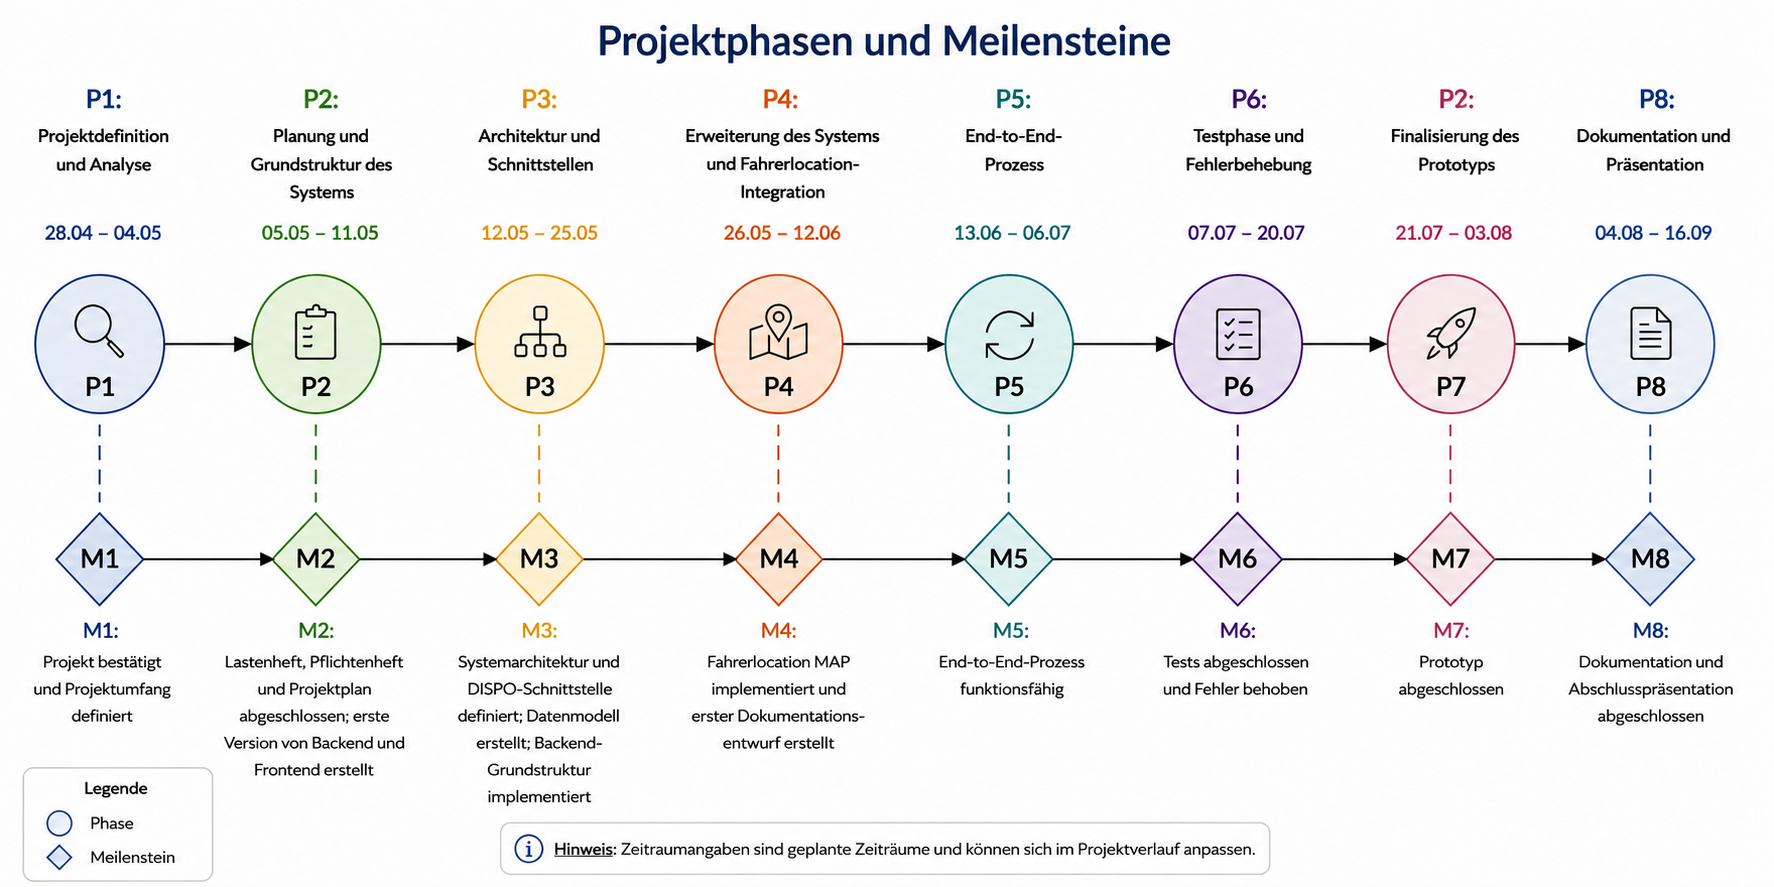
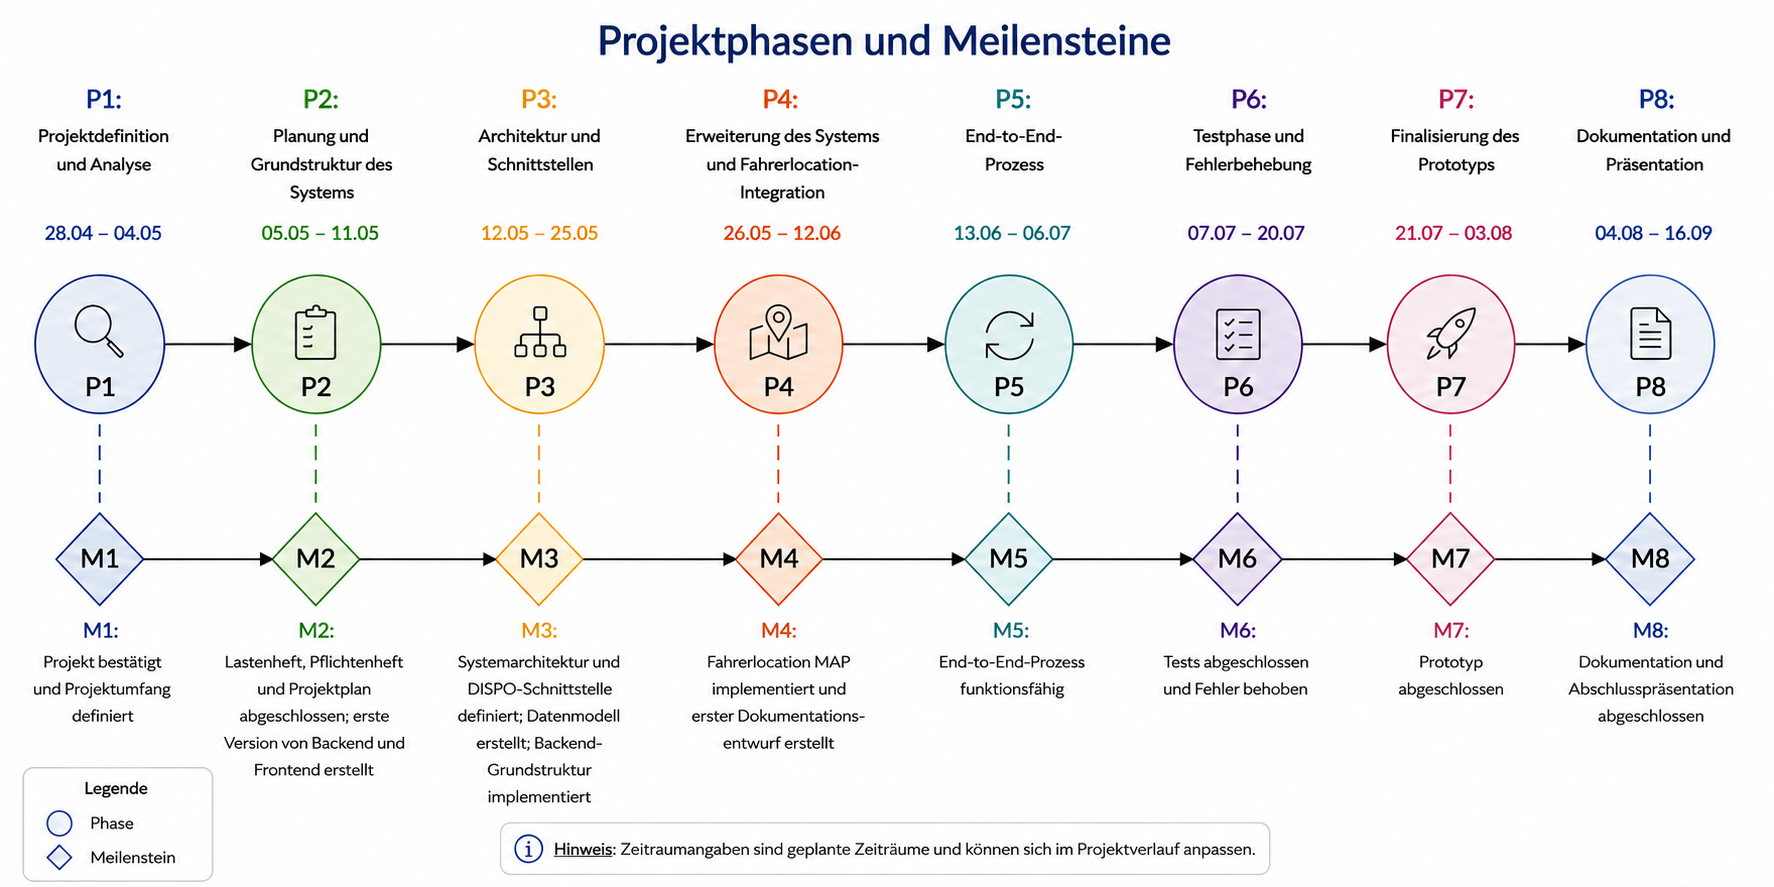
fix naming and assets

diff --git a/docs/Projektdokumentation/kapitel/07-test-und-validierung.tex b/docs/Projektdokumentation/kapitel/07-test-und-validierung.tex
@@ -32,7 +32,7 @@ Status besonders wahrscheinlich sind.
 \subsection{End-to-End-Tests}
 
 Die End-to-End-Tests prüfen die zentralen Benutzerabläufe der
-Kundenbestätigung, des Dispositions-Dashboards und der
+Kundenbestätigung, des Avisierungsdashboards und der
 Lieferverfolgung über Frontend, Backend, E-Mail-Versand und
 DISPO-Rückmeldung hinweg. Sie werden mit Playwright im
 Chromium-Browser ausgeführt und befinden sich im Verzeichnis
@@ -42,11 +42,11 @@ Chromium-Browser ausgeführt und befinden sich im Verzeichnis
 
 Die Teststruktur orientiert sich an fachlichen Benutzerabläufen
 und nicht an einzelnen Frontend-Komponenten. Die Szenarien sind
-in die Bereiche Kundenbestätigung, Dispositions-Dashboard und
+in die Bereiche Kundenbestätigung, Avisierungsdashboard und
 Lieferverfolgung gegliedert.
 
 Die Szenarien zur Kundenbestätigung umfassen den Versand und
-Inhalt der Bestätigungs-E-Mail, den Zugriff auf die Kundenseite,
+Inhalt der Bestätigungs-E-Mail, den Zugriff auf die Bestätigungsseite,
 die Anzeige der Lieferdaten sowie die Bestätigung oder Ablehnung
 eines Liefertermins. Zusätzlich werden ungültige
 Bestätigungstoken, optionale Kundenkommentare und die Persistenz
@@ -75,24 +75,24 @@ verteilt:
 \begin{itemize}
     \item \texttt{email.spec.ts} für den Versand und Inhalt der
     Bestätigungs-E-Mail
-    \item \texttt{page.spec.ts} für die Anzeige der Kundenseite
+    \item \texttt{page.spec.ts} für die Anzeige der Bestätigungsseite
     und das Verhalten bei ungültigen Bestätigungstoken
     \item \texttt{response.spec.ts} für Bestätigung, Ablehnung,
     Kundenkommentare, DISPO-Rückmeldungen und persistierte
     Abschlusszustände
 \end{itemize}
 
-Die Tests des Dispositions-Dashboards befinden sich in folgenden
+Die Tests des Avisierungsdashboards befinden sich in folgenden
 Dateien:
 
 \begin{itemize}
     \item \texttt{authentication.spec.ts} für den gültigen und
     ungültigen Dashboard-Zugang
     \item \texttt{overview.spec.ts} für die Tourenübersicht,
-    Statusanzahlen, Suche, Filterung und Pagination,
+    Statusanzahlen, Suche, Filterung und Paginierung,
     \item \texttt{order-detail.spec.ts} für Auftragsdetails,
-    Anfragehistorie, Kundenreaktionen, Resend-Berechtigung und
-    Kanalauswahl
+    Anfragehistorie, Kundenreaktionen, Berechtigung zur erneuten
+    Avisierung und Kanalauswahl
     \item \texttt{settings.spec.ts} für das Laden und Testen der
     E-Mail- und SMTP-Einstellungen
 \end{itemize}
@@ -125,7 +125,7 @@ Datenbankzustände direkt.
 \subsubsection{Versand und Bereitstellung der Anfrage}
 
 Zur Prüfung des Versandablaufs wird über die geschützte
-DISPO-Schnittstelle eine Bestätigungsanfrage für einen
+DISPO-Schnittstelle eine Rückbestätigungsanfrage für einen
 eindeutigen Testauftrag erzeugt. Die dadurch ausgelöste
 Bestätigungs-E-Mail wird über den konfigurierten SMTP-Versand
 an Mailpit übermittelt. Dort wartet der Test auf den Eingang
@@ -179,7 +179,7 @@ erhalten.
 
 Die Persistenz beider Abschlusszustände wird durch das erneute
 Öffnen des Bestätigungslinks geprüft. Der zuvor erreichte Status
-muss weiterhin angezeigt werden, während die Buttons zum
+muss weiterhin angezeigt werden, während die Schaltflächen zum
 Bestätigen und Ablehnen nicht mehr verfügbar sind. Im
 abgelehnten Zustand darf außerdem keine Tracking-Karte
 angezeigt werden.
@@ -190,7 +190,7 @@ Für den Dashboard-Zugang fordert der Test mithilfe eines gültigen
 API-Schlüssels über die geschützte Backend-Schnittstelle einen
 Dashboard-Zugangslink an. Nach dem Öffnen dieses Links im Browser
 prüft der Test den Aufbau einer authentifizierten
-Dashboard-Sitzung, die Weiterleitung zum Dispositions-Dashboard
+Dashboard-Sitzung, die Weiterleitung zum Avisierungsdashboard
 und die Anzeige der Tourenübersicht.
 
 Ein weiterer Test ruft die Anwendung mit einem ungültigen
@@ -212,7 +212,7 @@ angezeigt und ein nicht passender Auftrag aus der Ergebnisliste
 entfernt wird.
 
 Zusätzlich wird die kombinierte Filterung nach Tournummer und
-Bestätigungsstatus geprüft. Der Pagination-Test wechselt auf die
+Bestätigungsstatus geprüft. Der Paginierungstest wechselt auf die
 zweite Ergebnisseite, kontrolliert den dafür ausgeführten
 Backend-Aufruf und prüft die Anzeige der dort enthaltenen
 Ergebnisse.
@@ -220,7 +220,7 @@ Ergebnisse.
 \subsubsection{Auftragsdetails und erneute Avisierung}
 
 Die Auftragsdetailseite zeigt die Stammdaten des Auftrags, den
-aktuellen Status und die aktuelle Bestätigungsanfrage. Die
+aktuellen Status und die aktuelle Rückbestätigungsanfrage. Die
 E2E-Tests prüfen unter anderem die Auftragsnummer, den
 Kundennamen, die E-Mail-Adresse, die Lieferadresse, das Fahrzeug,
 die Bestellmenge und den Kommunikationskanal.
@@ -231,17 +231,18 @@ Anfragen mit den Zuständen \texttt{REJECTED} und
 auf der Detailseite sichtbar sein.
 
 Die Verfügbarkeit der erneuten Avisierung hängt vom aktuellen
-Status ab. Für einen bereits bestätigten Auftrag muss der Button
+Status ab. Für einen bereits bestätigten Auftrag muss die
+Schaltfläche
 \glqq Erneut senden\grqq deaktiviert sein. Für einen Auftrag mit
-dem Status \texttt{NO\_RESPONSE} muss der Button dagegen
+dem Status \texttt{NO\_RESPONSE} muss die Schaltfläche dagegen
 aktiviert sein.
 
 Für eine zulässige erneute Avisierung wird die Auswahl der
 Kommunikationskanäle E-Mail, SMS und WhatsApp geprüft. Nach der
 Auswahl eines Kanals muss die vorherige Auswahl aufgehoben und
 der aktive Kanal über das Attribut \texttt{aria-pressed}
-zugänglich gekennzeichnet werden. Der Button zum erneuten Senden
-muss dabei aktiviert bleiben.
+zugänglich gekennzeichnet werden. Die Schaltfläche zum erneuten
+Senden muss dabei aktiviert bleiben.
 
 Der Versand wird im E2E-Test nicht ausgelöst, da die
 Dashboard-Tests gemeinsam verwendete \texttt{DEMO}-Seed-Daten
@@ -264,7 +265,7 @@ Zunächst wird kontrolliert, ob die gespeicherten
 SMTP-Einstellungen vom Backend geladen und in der
 Benutzeroberfläche dargestellt werden.
 
-Anschließend wird über den Button
+Anschließend wird über die Schaltfläche
 \glqq Verbindung testen\grqq{} geprüft, ob das Backend die
 gespeicherte SMTP-Konfiguration erfolgreich verwenden kann.
 Nach erfolgreichem Abschluss muss eine entsprechende Meldung
@@ -294,8 +295,8 @@ Tracking-Karte noch die Fahrzeug- und Zielmarkierung an.
 Stattdessen wird der Kunde darauf hingewiesen, dass die
 Tracking-Informationen erst am Liefertag verfügbar sind.
 
-Abschließend wird die Aktualisierung der Fahrerposition über den
-Button \glqq Aktualisieren\grqq{} geprüft. Dabei müssen neue
+Abschließend wird die Aktualisierung der Fahrerposition über die
+Schaltfläche \glqq Aktualisieren\grqq{} geprüft. Dabei müssen neue
 Fahrerkoordinaten geladen und der angezeigte Lieferstatus
 beziehungsweise die verbleibende Entfernung aktualisiert
 werden. Die Karte sowie die Fahrzeug- und Zielmarkierung müssen

diff --git a/docs/Projektdokumentation/kapitel/05-avisierungsservice.tex b/docs/Projektdokumentation/kapitel/05-avisierungsservice.tex
@@ -907,7 +907,7 @@ Abschnitt~\ref{sec:kommunikationsabstraktion} beschriebenen
 Kanalauswahl auf. Abhängig vom gespeicherten \texttt{CommunicationChannel} delegiert die Anwendung den
 Versand an den \texttt{SmsNotificationSender} oder den
 \texttt{WhatsAppNotificationSender}. Beide Implementierungen
-erzeugen aus dem Auftrag und der Bestätigungsanfrage einen
+erzeugen aus dem Auftrag und der Rückbestätigungsanfrage einen
 gemeinsamen \texttt{ConfirmationMessageContent} und übergeben
 diesen an den \texttt{TwilioMessageSender}. Die Abhängigkeit
 vom Twilio Java SDK bleibt dadurch auf den ausgehenden
@@ -929,7 +929,7 @@ Vielen Dank.
 \end{quote}
 
 Die Platzhalter werden beim Versand mit den Daten des jeweiligen
-Auftrags und der Bestätigungsanfrage befüllt. Ihre Zuordnung ist
+Auftrags und der Rückbestätigungsanfrage befüllt. Ihre Zuordnung ist
 in Tabelle~\ref{tab:twilio-template-variablen} dargestellt.
 
 \begin{table}[htbp]
@@ -973,7 +973,7 @@ beiden Kommunikationskanälen.
         \includegraphics[
             height=0.34\textheight,
             keepaspectratio
-        ]{figures/twilio-sms-beispiel.png}
+        ]{figures/twilio-sms-beispiel.jpg}
         \caption{Versand als SMS}
         \label{fig:twilio-sms-beispiel}
     \end{subfigure}
@@ -983,7 +983,7 @@ beiden Kommunikationskanälen.
         \includegraphics[
             height=0.34\textheight,
             keepaspectratio
-        ]{figures/twilio-whatsapp-beispiel.png}
+        ]{figures/twilio-whatsapp-beispiel.jpg}
         \caption{Versand über WhatsApp}
         \label{fig:twilio-whatsapp-beispiel}
     \end{subfigure}
@@ -1701,7 +1701,7 @@ wird bei Bedarf über eine DISPO-Schnittstelle abgerufen. Die
 Koordinaten des Lieferziels werden dagegen aus der im Auftrag
 gespeicherten Lieferadresse ermittelt. Der Avisierungsservice
 ordnet beide Informationen über die zugehörige
-Bestätigungsanfrage dem jeweiligen Auftrag zu und stellt sie über
+Rückbestätigungsanfrage dem jeweiligen Auftrag zu und stellt sie über
 getrennte tokenbasierte Kundenschnittstellen bereit.
 
 Tracking-Daten stehen ausschließlich am hinterlegten Liefertag
@@ -1715,10 +1715,10 @@ kann in automatisierten Tests mit einer kontrollierten Zeitquelle
 \subsubsection{Daten zur Lieferverfolgung und Fahrerposition}
 
 Die Fahrerposition wird nicht im Avisierungsservice gespeichert,
-sondern bei Bedarf aus dem DISPO-System abgerufen. Ausgangspunkt
+sondern bei Bedarf aus DISPO abgerufen. Ausgangspunkt
 der Abfrage ist der übergebene Bestätigungstoken. Der
 \texttt{GetDriverLocationService} ordnet diesen der aktuellen
-Bestätigungsanfrage und dem zugehörigen Auftrag zu. Unbekannte
+Rückbestätigungsanfrage und dem zugehörigen Auftrag zu. Unbekannte
 Token sowie Token inzwischen abgelöster Anfragen können daher
 nicht für den Zugriff auf Tracking-Daten verwendet werden.
 
@@ -1727,8 +1727,7 @@ Liefertag. Hierzu wird das im \texttt{DeliverySlot} gespeicherte
 Lieferdatum mit dem aktuellen Datum verglichen. Stimmen beide
 überein, übergibt der \texttt{GetDriverLocationService} die
 externe Auftragsnummer an den \texttt{LocationTrackingService}.
-Sie dient als Zuordnungsschlüssel, da sie den Auftrag auch im
-führenden DISPO-System eindeutig identifiziert. Vor oder nach
+Sie dient als Zuordnungsschlüssel, da sie den Auftrag auch in DISPO eindeutig identifiziert. Vor oder nach
 dem Liefertag erfolgt keine Anfrage an die externe
 Tracking-Schnittstelle.
 
@@ -1793,12 +1792,24 @@ Zeitraums keinen weiteren Zugriff auf den externen
 Geocoding-Dienst. Der Cache gehört zur laufenden
 Anwendungsinstanz und wird bei einem Neustart neu aufgebaut.
 
+Kann Nominatim für eine Lieferadresse keine Zielkoordinate
+ermitteln, erzeugt der
+\texttt{DeliveryAddressCoordinateResolver} im aktuellen
+Projektstand eine deterministische Ersatzkoordinate im Raum
+Würzburg. Dadurch bleibt die Lieferverfolgung während der
+Entwicklung und Erprobung auch dann reproduzierbar, wenn der
+Geocoding-Dienst nicht erreichbar ist oder kein verwendbares
+Ergebnis liefert. Da die Ersatzkoordinate keine verifizierte
+geografische Position der Lieferadresse darstellt, wäre dieser
+Mechanismus für einen produktiven Einsatz entsprechend
+anzupassen.
+
 \subsubsection{Bereitstellung für die Bestätigungsseite}
 
 Der Avisierungsservice stellt die Tracking-Daten über zwei
 tokenbasierte Kundenschnittstellen bereit. Beide Zugriffe
 verwenden den Bestätigungstoken zur Ermittlung der aktuellen
-Bestätigungsanfrage und des zugehörigen Auftrags.
+Rückbestätigungsanfrage und des zugehörigen Auftrags.
 
 Die GET-Schnittstelle
 
@@ -1822,7 +1833,7 @@ GET-Schnittstelle bereitgestellt:
 \texttt{/api/customer/confirmations/\{token\}/driver-location}
 \end{center}
 
-bereitgestellt. Ist am Liefertag eine Position verfügbar, liefert
+Ist am Liefertag eine Position verfügbar, liefert
 die Schnittstelle den Längengrad als \texttt{locationX} und den
 Breitengrad als \texttt{locationY}. Liefert der
 \texttt{GetDriverLocationService} kein Ergebnis, antwortet die
@@ -1840,8 +1851,8 @@ die bereitgestellten Tracking-Daten nicht zwischenzuspeichern.
 Die Trennung der beiden Schnittstellen berücksichtigt die
 unterschiedliche Veränderungshäufigkeit der Daten. Die
 Zielkoordinaten bleiben für eine Lieferadresse weitgehend
-stabil, während die Fahrerposition bei jedem Abruf erneut vom
-DISPO-System angefordert wird. Dadurch lässt sich die aktuelle
+stabil, während die Fahrerposition bei jedem Abruf erneut von
+DISPO angefordert wird. Dadurch lässt sich die aktuelle
 Fahrerposition wiederholt abfragen, ohne zugleich eine erneute
 Geocodierung der Lieferadresse auszulösen.
 

diff --git a/docs/Projektdokumentation/kapitel/02-ist-analyse.tex b/docs/Projektdokumentation/kapitel/02-ist-analyse.tex
@@ -18,7 +18,7 @@ aktualisiert und gegebenenfalls weitere Maßnahmen eingeleitet
 werden. Auch noch ausstehende Antworten mussten durch die
 Disposition gesondert nachverfolgt werden.
 
-Zwischen der Kundenkommunikation und der Dokumentation im
+Zwischen der Kundenkommunikation und der Dokumentation in
 DISPO bestand keine automatisierte Verbindung. Mit
 zunehmender Anzahl parallel bearbeiteter Lieferungen stiegen
 daher sowohl der Koordinationsaufwand als auch die Anforderungen
@@ -78,7 +78,9 @@ Nachvollziehbarkeit des jeweiligen Rückmeldestands. Gleichzeitig
 sollte die bestehende fachliche Verantwortung der Disposition
 für die Liefer- und Tourenplanung erhalten bleiben.
 
-\subsection{Funktionale Anforderungen}
+\subsection{Anforderungsanalyse}
+
+\subsubsection{Funktionale Anforderungen}
 
 Aus der Analyse des bestehenden Prozesses sowie den im
 Projektverlauf vorgenommenen fachlichen Konkretisierungen und
@@ -101,11 +103,11 @@ an die digitale Lieferavisierung abgeleitet:
 
         A2 &
         Für einen Avisierungsvorgang muss eine individuelle
-        Bestätigungsanfrage mit einem personalisierten
+        Rückbestätigungsanfrage mit einem personalisierten
         Kundenlink erzeugt werden. \\
 
         A3 &
-        Die Bestätigungsanfrage muss abhängig vom hinterlegten
+        Die Rückbestätigungsanfrage muss abhängig vom hinterlegten
         Kommunikationskanal über E-Mail, SMS oder WhatsApp
         versendet werden können. \\
 
@@ -117,13 +119,13 @@ an die digitale Lieferavisierung abgeleitet:
         werden können. \\
 
         A5 &
-        Pro Bestätigungsanfrage darf nur eine Kundenreaktion
+        Pro Rückbestätigungsanfrage darf nur eine Kundenreaktion
         statuswirksam verarbeitet werden. Für weitere Reaktionen darf
-        ausschließlich die jeweils aktuelle Bestätigungsanfrage gültig
+        ausschließlich die jeweils aktuelle Rückbestätigungsanfrage gültig
         sein. \\
 
         A6 &
-        Das System muss die für eine Bestätigungsanfrage
+        Das System muss die für eine Rückbestätigungsanfrage
         festgelegte Antwortfrist überwachen und eine
         ausbleibende Kundenreaktion als \texttt{NO\_RESPONSE}
         verarbeiten. \\
@@ -143,7 +145,7 @@ an die digitale Lieferavisierung abgeleitet:
 
         A9 &
         Die Auftragsdetailansicht muss die aktuelle
-        Bestätigungsanfrage, frühere Anfragen und vorhandene
+        Rückbestätigungsanfrage, frühere Anfragen und vorhandene
         Kundenreaktionen darstellen. Eine zulässige erneute
         Avisierung muss über einen auswählbaren
         Kommunikationskanal angestoßen werden können. \\
@@ -163,7 +165,7 @@ an die digitale Lieferavisierung abgeleitet:
     \end{tabularx}
 \end{table}
 
-\subsection{Nichtfunktionale Anforderungen}
+\subsubsection{Nichtfunktionale Anforderungen}
 
 Neben den funktionalen Anforderungen wurden auch nichtfunktionale Anforderungen definiert:
 
@@ -176,7 +178,7 @@ Neben den funktionalen Anforderungen wurden auch nichtfunktionale Anforderungen 
         ID & Beschreibung \\
         \midrule
         N1 &
-        Auftragsdaten, Bestätigungsanfragen und
+        Auftragsdaten, Rückbestätigungsanfragen und
         Konfigurationen verschiedener Unternehmen müssen
         mandantenbezogen verarbeitet und voneinander getrennt
         werden. \\

diff --git a/docs/Projektdokumentation/kapitel/01-einleitung.tex b/docs/Projektdokumentation/kapitel/01-einleitung.tex
@@ -47,7 +47,7 @@ Rückbestätigung geplanter Heizöllieferungen. Der
 Avisierungsservice sollte einen von DISPO bereitgestellten
 Auftrag einschließlich der relevanten Kunden-, Kontakt- und
 Lieferdaten übernehmen, daraus eine individuelle
-Bestätigungsanfrage erzeugen und die Kundenbenachrichtigung über
+Rückbestätigungsanfrage erzeugen und die Kundenbenachrichtigung über
 den für den Auftrag festgelegten Kommunikationskanal versenden.
 
 Die Kundenkommunikation sollte über E-Mail, SMS oder WhatsApp
@@ -64,12 +64,12 @@ DISPO zurückgemeldet werden.
 Das geschützte Avisierungsdashboard sollte eine zentrale
 Übersicht über den aktuellen Stand der Kundenrückbestätigungen
 bereitstellen. Dazu zeigt es die zugehörigen Touren und
-Aufträge mit ihren Avisierungsstatus, Bestätigungsanfragen und
+Aufträge mit ihren Avisierungsstatus, Rückbestätigungsanfragen und
 Kundenreaktionen an. Die Liefer- und Tourenplanung bleibt
 weiterhin vollständig in DISPO.
 
 Für Aufträge ohne Kundenrückmeldung sollte über das Dashboard
-eine erneute Bestätigungsanfrage ausgelöst werden können. Dabei
+eine erneute Rückbestätigungsanfrage ausgelöst werden können. Dabei
 kann der bisherige Kommunikationskanal beibehalten oder ein
 anderer Kanal ausgewählt werden. Die erneute Anfrage wird
 anschließend über E-Mail, SMS oder WhatsApp an den Kunden

diff --git a/docs/Projektdokumentation/kapitel/09-projektergebnisse.tex b/docs/Projektdokumentation/kapitel/09-projektergebnisse.tex
@@ -42,7 +42,7 @@ in Kapitel 7 beschrieben.
 Die Anwendung wurde für die Erprobung des Avisierungsprozesses entwickelt. In der lokalen
 Umgebung ersetzt ein DISPO-Mock die Schnittstellen für Statusrückmeldungen und
 Fahrerpositionen; E-Mails werden über Mailpit entgegengenommen. Der Einsatz mit dem
-DISPO und den betrieblichen Diensten ist deshalb ein weiterer Schritt
+tatsächlichen DISPO-System und den betrieblichen Diensten ist deshalb ein weiterer Schritt
 über den vorliegenden Prototyp hinaus.
 
 Die Lieferverfolgung verwendet in dieser Umgebung vorbereitete Fahrzeugpositionen. Bei der

diff --git a/docs/Projektdokumentation/kapitel/03-soll-konzept.tex b/docs/Projektdokumentation/kapitel/03-soll-konzept.tex
@@ -26,9 +26,8 @@ kann eine erneute Kundenkontaktaufnahme veranlasst werden. Das
 Ergebnis der Abstimmung wird anschließend für die weitere
 Bearbeitung in DISPO bereitgestellt.
 
-Für bestätigte Liefertermine ergänzt am Liefertag eine
-Lieferverfolgung die Kundeninformation. Sie bietet dem Kunden
-eine räumliche Orientierung zum aktuellen Lieferverlauf.
+Bei bestätigten Lieferterminen steht dem Kunden am Liefertag zusätzlich eine Lieferverfolgung zur Verfügung.
+Sie bietet dem Kunden eine räumliche Orientierung zum aktuellen Lieferverlauf.
 
 \subsection{SOLL-Prozess}
 
